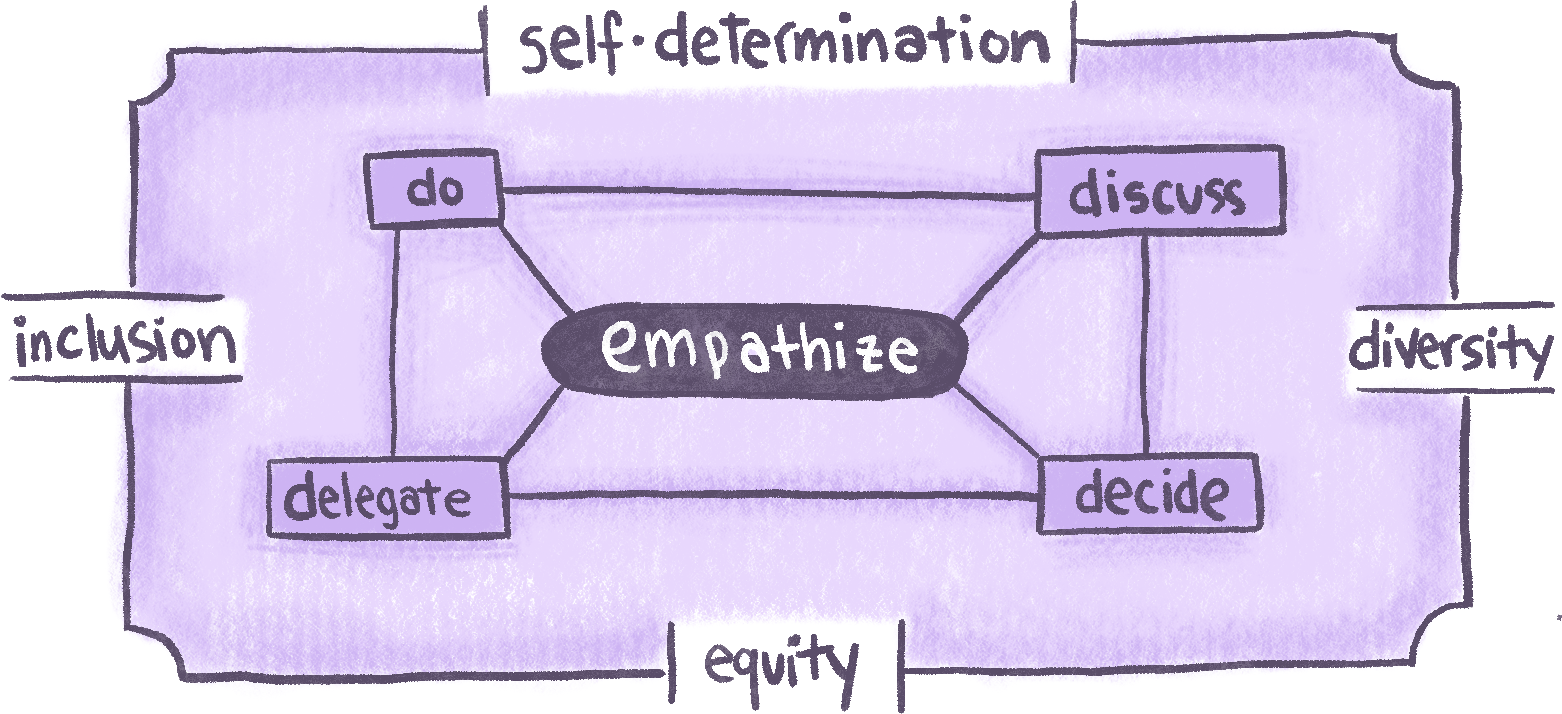
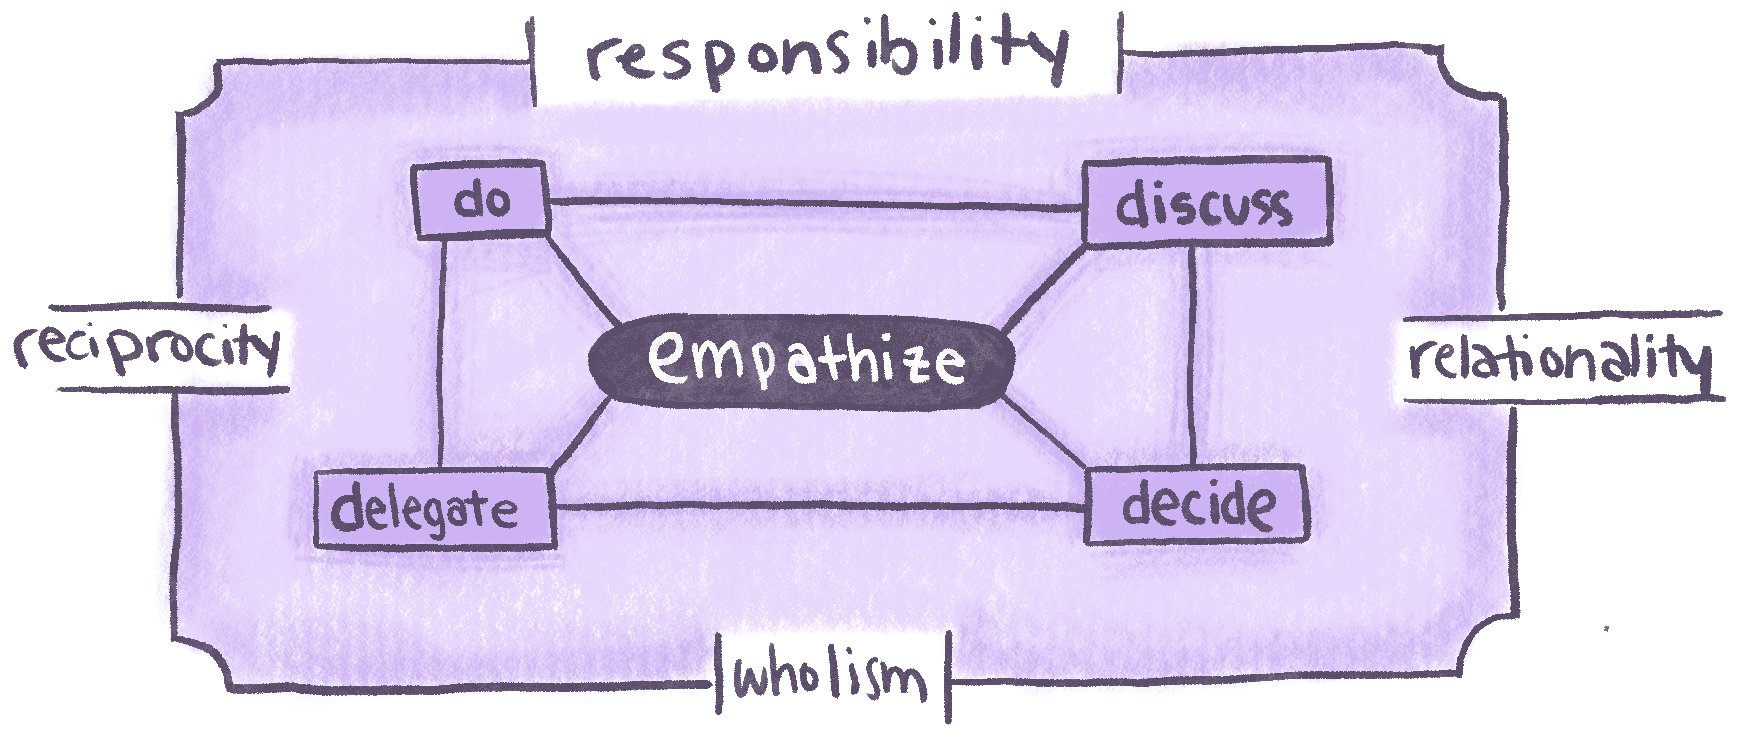
update to decolonized values

Changed region(s): [[0.0, 0.0, 1.0, 1.0], [0.4609, 0.5546, 0.4917, 0.5854]]

diff --git a/src/components/pages/Process.js b/src/components/pages/Process.js
@@ -1,6 +1,7 @@
 import React from 'react';
 import { Fade } from 'react-awesome-reveal';
 import EmpathyCenteredDesign from '../components/EmpathyCenteredDesign';
+import SupportiveValues from '../components/SupportiveValues';
 
 export default function Process() {
   return (<>
@@ -12,7 +13,7 @@ export default function Process() {
           <div className="w-full flex flex-col justify-center items-center gap-10">
             <h1>design process</h1>
             <p className="project-card-topic scale-120 md:scale-150">
-              design with empathy and equity</p>
+              decolonizing design with empathy</p>
           </div>  
         </Fade>
       </div>
@@ -26,54 +27,18 @@ export default function Process() {
       <div className="w-[85vw] flex flex-col md:flex-row justify-center items-start gap-10">
         
         {/* design def quote */}<Fade className='w-full md:w-1/2'>
-        <h3 className='text-left md:text-right w-full'><span className='opacity-40'>Design is a dynamic, non-linear process that involves </span>discussing, deciding, delegating, and doing, <span className='opacity-40'>all underpinned by the continual act of </span>empathizing<span className='opacity-40'>. This iterative cycle is enveloped in a protective and evolving layer of </span>diversity, inclusivity, equity, and self-determination<span className='opacity-40'>, values that form the bedrock of my approach to design.</span></h3></Fade>
+        <h3 className='text-left md:text-right w-full'><span className='opacity-40'>Design is a dynamic, non-linear process that involves </span>discussing, deciding, delegating, and doing <span className='opacity-40'>all underpinned by the continual act of </span>empathizing<span className='opacity-40'>. This iterative cycle is enveloped in a protective and evolving layer of </span>reciprocity, relationality, responsibility, and wholism<span className='opacity-40'>, values that form the bedrock of my approach to design.</span></h3></Fade>
         
         {/* remaining definition */}<Fade className='w-full md:w-1/2'>
         <div className='flex flex-col justify-start items-start w-full gap-5'>
           <Fade><p><span className='project-card-date'>Empathizing</span><span className='opacity-50'> serves as the foundational force for connection, where individuals come together to share their stories, visions, and interventions. Techniques such as </span><span className='project-card-topic'>talking circles</span><span className='opacity-50'>,</span> <span className='project-card-topic'>diverse forms of interaction</span><span className='opacity-50'>, and the early establishment of </span><span className='project-card-topic'>community guidelines</span><span className='opacity-50'> facilitate this empathic exchange. Key guiding questions include, </span><span className='process-question'>tell us about yourself?</span><span className='opacity-50'> and </span><span className='process-question'>what does empathy look and feel like to you?</span><span className='opacity-50'> The outcomes of this stage include the development of an </span><span className='process-outcome-badge'>Empathy Tree</span><span className='opacity-50'>, result from a branching workshop for growing a shared idea of empathy, and a refined </span><span className='process-outcome-badge'>Community Guidelines List</span><span className='opacity-50'> that encapsulates the rules and responsibilities emerging from the tree.</span></p></Fade>
           
-          <Fade><p><span className='opacity-50'>In the subsequent stages of </span><span className='project-card-date'>discussing</span><span className='opacity-50'>, </span><span className='project-card-date'>deciding</span><span className='opacity-50'>, </span><span className='project-card-date'>delegating</span><span className='opacity-50'>, and </span><span className='project-card-date'>doing</span><span className='opacity-50'>, we employ specific techniques and approaches such as </span><span className='project-card-topic'>talking circles</span><span className='opacity-50'>, </span><span className='project-card-topic'>sticky note stories</span><span className='opacity-50'>, analog and digital </span><span className='project-card-topic'>mapping</span><span className='opacity-50'>, and regular </span><span className='project-card-topic'>feedback cycles</span><span className='opacity-50'>. Each stage is guided by questions aimed at fostering </span><span className='process-question'>collaboration, understanding, and progress</span><span className='opacity-50'>. The ultimate goal is to allow individuals and communities </span><span className='process-outcome-badge'>full agency</span><span className='opacity-50'> over their tasks while maintaining a </span><span className='process-outcome-badge'>shared resource pool</span><span className='opacity-50'> and upholding the values of </span><span className='project-card-date'>diversity</span><span className='opacity-50'>, </span><span className='project-card-date'>equity</span><span className='opacity-50'>, </span><span className='project-card-date'>inclusion</span><span className="opacity-50">, and </span><span className="project-card-date">self-determination</span><span className="opacity-50">.</span></p></Fade>
-            
-          <Fade><p className='opacity-50'>This continuous cycle of design is sustained by the constant upkeep of these core values, ensuring that empathy remains at the forefront, and the process unfolds smoothly.</p></Fade>
+          <Fade><p><span className='opacity-50'>In the subsequent stages of </span><span className='project-card-date'>discussing</span><span className='opacity-50'>, </span><span className='project-card-date'>deciding</span><span className='opacity-50'>, </span><span className='project-card-date'>delegating</span><span className='opacity-50'>, and </span><span className='project-card-date'>doing</span><span className='opacity-50'>, we employ specific techniques and approaches such as </span><span className='project-card-topic'>talking circles</span><span className='opacity-50'>, </span><span className='project-card-topic'>sticky note stories</span><span className='opacity-50'>, analog and digital </span><span className='project-card-topic'>mapping</span><span className='opacity-50'>, and regular </span><span className='project-card-topic'>feedback cycles</span><span className='opacity-50'>. Each stage is guided by questions aimed at fostering </span><span className='process-question'>collaboration, understanding, and progress</span><span className='opacity-50'>. The ultimate goal is to allow individuals and communities </span><span className='process-outcome-badge'>full agency</span><span className='opacity-50'> over their tasks while maintaining a </span><span className='process-outcome-badge'>shared resource pool</span><span className='opacity-50'> and upholding the Indigenous values of </span><span className='project-card-date'>reciprocity</span><span className='opacity-50'>, </span><span className='project-card-date'>relationality</span><span className='opacity-50'>, </span><span className='project-card-date'>responsibility</span><span className="opacity-50">, and </span><span className="project-card-date">wholism</span><span className="opacity-50">.</span></p></Fade>
         </div></Fade>
         </div></Fade>
       
-      <EmpathyCenteredDesign />
-
-
-
-
-
-
-
-
-
-
-
-
-      <div className="h-screen"></div>
-
-
-
-      {/* TEMP -- PROCESS PAGE NEW FEATURES */}
-      <div className="flex flex-col w-full bg-lightPurple border-2 border-darkPurple py-10 justify-center items-center">
-        {/* heading text */}
-        <div className='flex flex-col justify-center items-center max-w-[90vw] md:max-w-[50vw] gap-10'>
-          <h3>upcoming page updates</h3>
-          <p>In alignment with the visuals created in the written excerpt above, the next updates of this website will better outline the ideas into a list format and supply external links to examples where necessary. In particular, the techniques and outcomes of each design phase will be linked to show tangible approaches to them. The below image placeholders are supplied for transparency.</p>
-        </div>
-
-        {/* images */}
-        <div className="flex flex-col md:flex-row justify-center items-center w-[90vw] p-6 bg-white mt-10 border-2 border-darkPurple opacity-75">
-          <div>
-            <img src={require('./../assets/process-website-sketch.jpg')} alt="design process website layout sketch" />
-          </div>
-          <div>
-            <img src={require('./../assets/process-outline.png')} alt="design process steps outlined" />
-          </div>
-        </div>
-      </div>
-      
+      <Fade><EmpathyCenteredDesign /></Fade>
+      <Fade><SupportiveValues /></Fade>
 
     </div>
   </>);

diff --git a/src/components/components/SupportiveValues.js b/src/components/components/SupportiveValues.js
@@ -1,0 +1,42 @@
+import React from 'react';
+
+export default function SupportiveValues() {
+  return (<>
+    {/* general container */}
+    <div className="base-container pt-12 gap-20">
+      {/* header */}
+      <h5 className='w-[75vw] md:w-[50vw]'>Protecting and nurturing this cycle are the values of respect, relationality, reciprocity, and responsiblity. Through the constant upkeep of these core Indigenous values, empathy is maintained and the process of "designing" in this context may continue smoothly.</h5>
+
+      {/* values container */}
+      <div className="w-[90vw] md:w-[95vw] flex flex-col justify-center items-center gap-0 border-2 border-darkPurple">
+
+        {/* values */}
+        <div className="w-full flex flex-wrap">
+          <div className="design-process-value-container">
+            <h3 className='text-left'>reciprocity</h3>
+            {/* content */}
+            <p>ensuring the equitable and accessible engagement of diverse peoples within the space in ways that promote mutual trust, sharing, and equal gift-giving</p>
+          </div>
+
+          <div className="design-process-value-container">
+            <h3 className='text-left'>relationality</h3>
+            {/* content */}
+            <p>understanding the diverse range of contexts, cultures, and communities that make up the multiple ecologies within and around the gathering spaces</p>
+          </div>
+
+          <div className="design-process-value-container">
+            <h3 className='text-left'>responsibility</h3>
+            {/* content */}
+            <p>recognizing and upholding the roles and rules within the gathering spaces to ensure both individual and collective needs are being met</p>
+          </div>
+
+          <div className="design-process-value-container">
+            <h3 className='text-left'>wholism</h3>
+            {/* content */}
+            <p>working towards the development of the wholistic form of every participant -- fostering growth within their heart, mind, body, and spirit</p>
+          </div>
+        </div>
+      </div>
+    </div>
+  </>);
+}

diff --git a/src/components/components/EmpathyCenteredDesign.js b/src/components/components/EmpathyCenteredDesign.js
@@ -12,11 +12,11 @@ export default function EmpathyCenteredDesign() {
       <div className="w-[90vw] md:w-[95vw] flex flex-col justify-center items-center gap-0 border-2 border-darkPurple">
 
       {/* empathy box */}
-      <div className="w-full flex flex-col md:flex-row justify-start md:justify-center items-start md:items-center border-2 border-darkPurple bg-purple gap-6 md:gap-24 p-10 hover:scale-105 hover:border-4 md:hover:w-[93vw] hover:z-10 transition-all">
+      <div className="w-full flex flex-col md:flex-row justify-start md:justify-center items-start md:items-center border-2 border-darkPurple bg-purple gap-6 md:gap-24 p-10">
         {/* header */}
         <h3 className=''>empathize</h3>
         {/* content */}
-        <div className="flex flex-col justify-start items-start gap-6">
+        <div className="flex flex-col justify-start items-start gap-6 leading-3">
           <p><span className='project-card-date'>Empathizing</span> is the foundational force of connection. Through it, we come together and share our stories, visions, and worldviews.</p>
           <ul className='list-disc list-outside space-y-3'>
             <li>

diff --git a/src/index.css b/src/index.css
@@ -125,7 +125,11 @@
   }
   /* empathy centered designer styles */
   .design-process-d-container {
-    @apply flex flex-col justify-center items-start gap-5 w-full md:basis-1/2 border-2 bg-lightPurple border-darkPurple p-10 hover:scale-105 hover:border-4 transition-all hover:z-10;
+    @apply flex flex-col justify-center items-start gap-5 w-full md:basis-1/2 border-2 bg-lightPurple border-darkPurple p-10;
+  }
+  .design-process-value-container {
+    @apply flex flex-col justify-start items-start gap-5
+    sm:basis-1/2 xl:basis-1/4 border-2 bg-purple border-darkPurple p-4 md:p-10;
   }
 }
 
